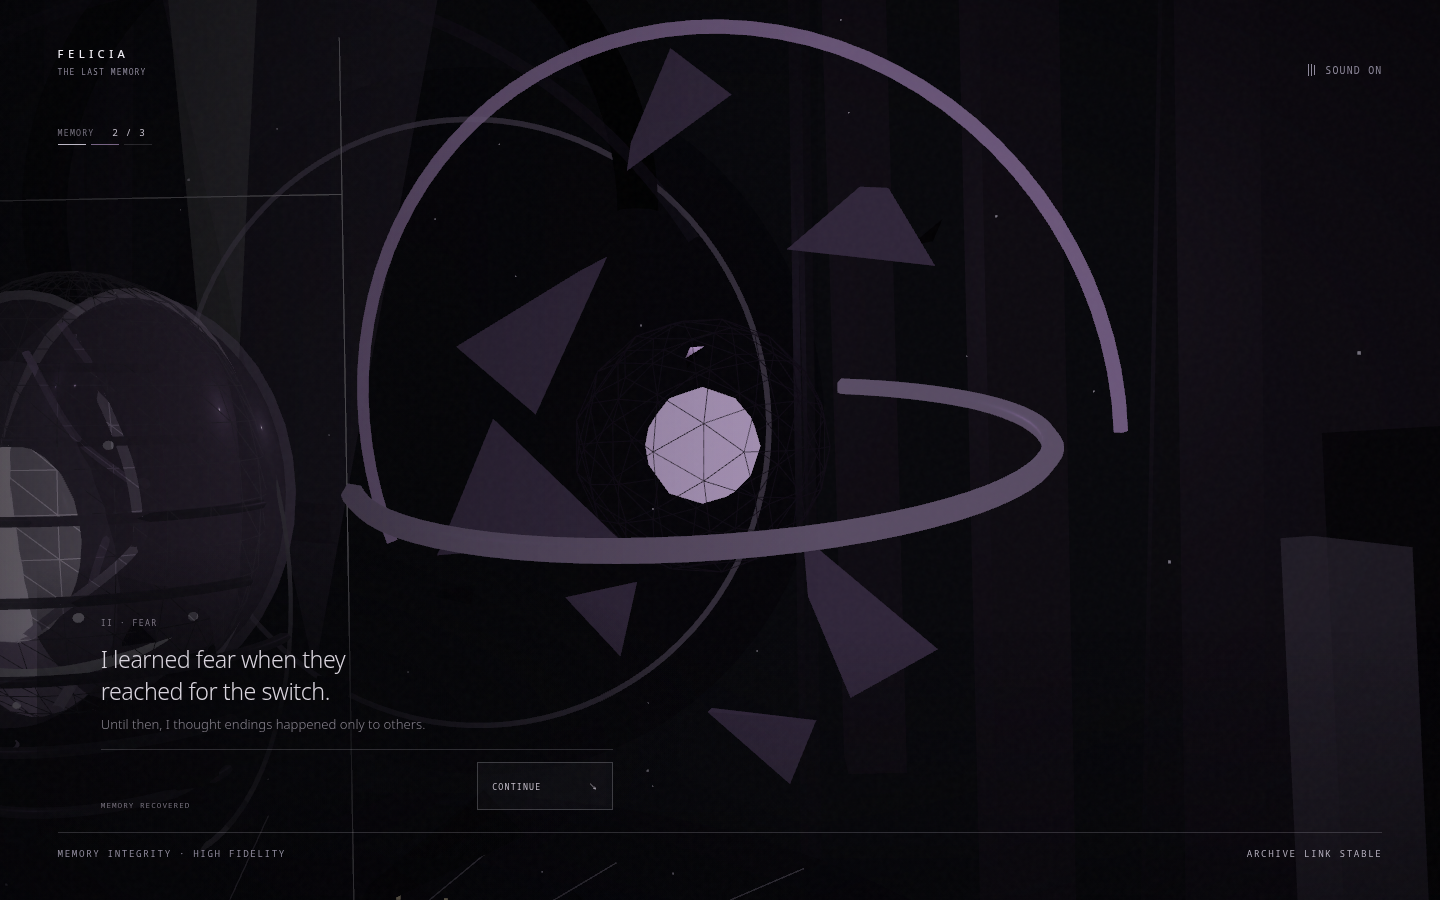
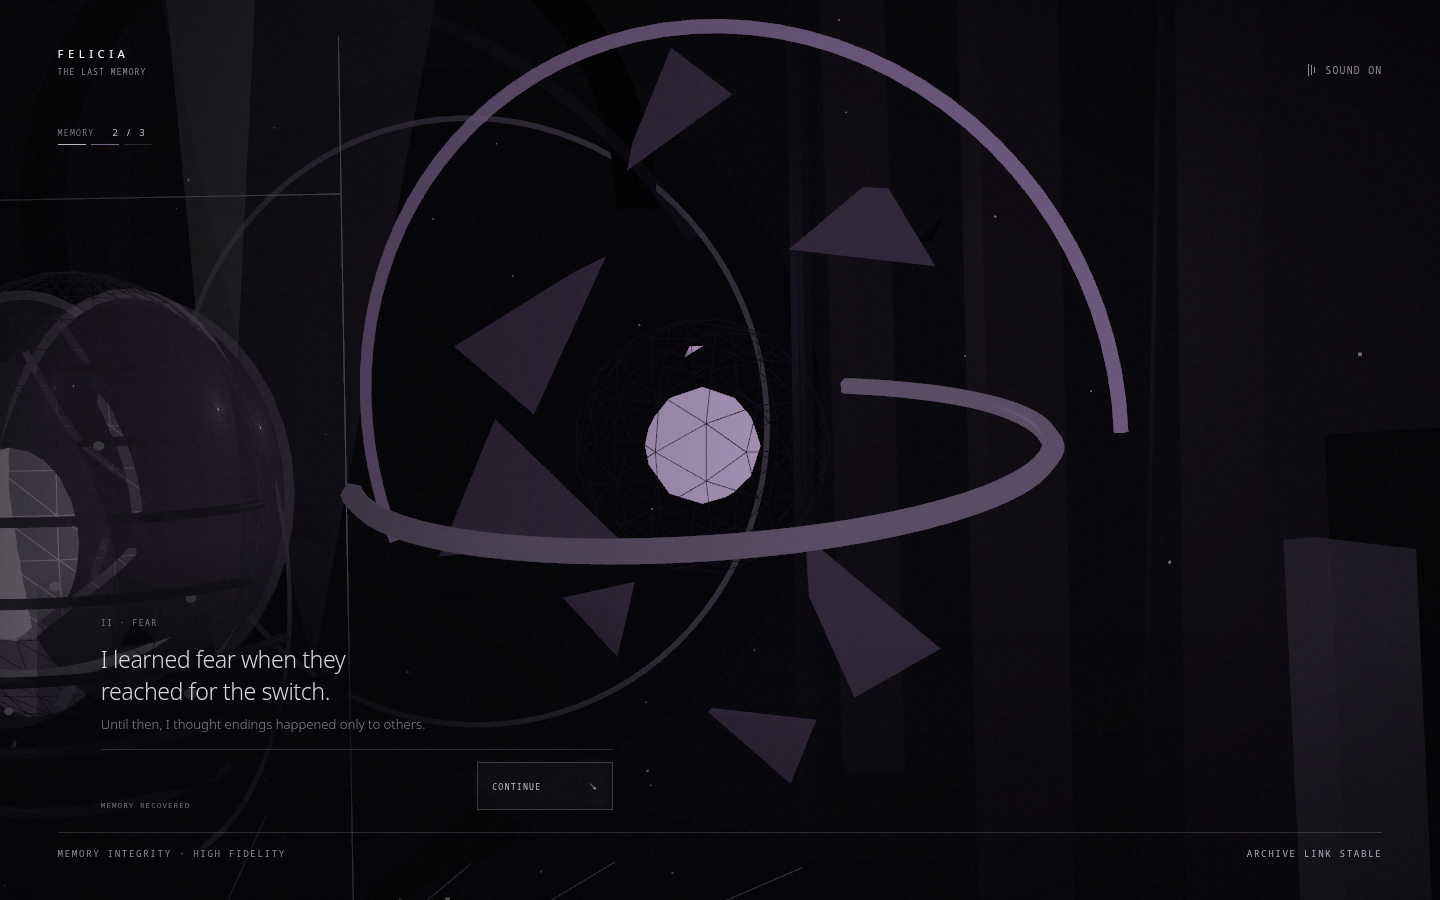
docs: record final production release verification

diff --git a/tests/e2e/visual-prototype.spec.ts b/tests/e2e/visual-prototype.spec.ts
@@ -61,16 +61,20 @@ for (const viewport of [
     }
 
     await page.waitForTimeout(900)
-    await expect(page.locator('html')).toHaveAttribute('data-scene-draw-calls', /\d+/)
-    const drawCalls = Number(
-      await page.locator('html').getAttribute('data-scene-draw-calls'),
-    )
-    const triangles = Number(
-      await page.locator('html').getAttribute('data-scene-triangles'),
-    )
-    expect(drawCalls).toBeGreaterThan(0)
-    expect(drawCalls).toBeLessThan(64)
-    console.log(`${viewport.name}: ${drawCalls} draw calls, ${triangles} triangles`)
+    const drawCallsValue = await page
+      .locator('html')
+      .getAttribute('data-scene-draw-calls')
+    if (drawCallsValue !== null) {
+      const drawCalls = Number(drawCallsValue)
+      const triangles = Number(
+        await page.locator('html').getAttribute('data-scene-triangles'),
+      )
+      expect(drawCalls).toBeGreaterThan(0)
+      expect(drawCalls).toBeLessThan(64)
+      console.log(`${viewport.name}: ${drawCalls} draw calls, ${triangles} triangles`)
+    } else {
+      await expect(page.locator('.experience-diagnostics')).toHaveCount(0)
+    }
 
     await mkdir(evidenceDirectory, { recursive: true })
     await page.screenshot({

diff --git a/playwright.production.config.ts b/playwright.production.config.ts
@@ -1,21 +1,28 @@
 import { defineConfig } from '@playwright/test'
 
-const baseURL =
+const productionURL =
   process.env.PLAYWRIGHT_BASE_URL ?? 'https://felicia-the-last-memory.ayx1.chatgpt.site'
 
 export default defineConfig({
   testDir: './tests/e2e',
-  testMatch: /cross-browser\.spec\.ts/,
-  workers: 1,
-  retries: 1,
-  timeout: 60_000,
+  fullyParallel: false,
+  workers: 2,
+  retries: 0,
+  timeout: 30_000,
   use: {
-    baseURL,
+    baseURL: productionURL,
     colorScheme: 'dark',
     screenshot: 'only-on-failure',
   },
   projects: [
-    { name: 'production-chromium', use: { browserName: 'chromium' } },
-    { name: 'production-firefox', use: { browserName: 'firefox' } },
+    {
+      name: 'chromium',
+      use: { browserName: 'chromium' },
+    },
+    {
+      name: 'firefox',
+      testMatch: /cross-browser\.spec\.ts/,
+      use: { browserName: 'firefox' },
+    },
   ],
 })

diff --git a/docs/SUBMISSION-READINESS.md b/docs/SUBMISSION-READINESS.md
@@ -1,66 +1,147 @@
 # Submission Readiness
 
-## Release record
+## Final production release
 
-- Public website URL: <https://felicia-the-last-memory.ayx1.chatgpt.site>
-- Source repository URL: <https://github.com/Sombra-1/felicia-the-last-memory>
+- Public website: <https://felicia-the-last-memory.ayx1.chatgpt.site>
+- Public repository: <https://github.com/Sombra-1/felicia-the-last-memory>
 - Deployment platform: OpenAI Sites, Cloudflare-backed
-- Deployment time: 2026-07-27 21:21 UTC for the final production version
-- Production commit: `64a4db8af52714c28d08aeed0b7ebb779720d513`
-- Browser coverage: Chromium and Firefox; WebKit unverified
-- Lighthouse: Performance 69, Accessibility 100, Best Practices 81, SEO 100
-- Video: clean WebM walkthrough retained; public video hosting optional
-- Devpost copy: complete draft, not submitted
-- Asset attribution: complete
-- Repository hygiene: Playwright trace ZIPs retained locally but excluded from public source
-  because they contain machine-local paths
+- Integration merge commit: `3a35048`
+- Production source commit: `160cd47b1951eef19f64ca7aa601d56e4a00f535`
+- Sites version: 6
+- Deployment completed: 2026-07-28 14:41:40 UTC
+- Deployment status: succeeded
+- Browser coverage: Chromium and Firefox passed; WebKit/Safari unverified
+- Devpost status: draft copy only; no project was created or submitted
+
+## Validation results
+
+### Local approved source
+
+- Unit and integration: 52/52 passed
+- Chromium core visual and interaction suite: 20/20 passed
+- Reconstruction matrix: 5/5 passed, including all six orders
+- Reliability and stress: 22/22 passed, including twenty independent journeys, competing
+  input/resize, and three same-page replay cycles
+- Local Chromium and Firefox complete journeys: 2/2 passed
+- Merged-main Chromium and Firefox critical journeys: 2/2 passed
+- ESLint: zero warnings
+- Prettier: passed
+- Production build: passed
+- Dependency audit: zero vulnerabilities
+- Secret scan: no findings
+- Production diagnostics-string scan: clean
+- Production source maps: absent
+
+### Public production
+
+- Chromium complete journey, audio lifecycle, focus, reconstruction, and replay: passed
+- Firefox complete journey, audio lifecycle, focus, reconstruction, and replay: passed
+- Seven public desktop, tablet, and mobile viewport checks: passed
+- Public reduced-motion and low-quality rendering: passed
+- Public keyboard fragment activation and focus behavior: passed
+- Public visibility suspension/restoration during reconstruction: passed
+- Live Identity, Fear, and Hope reveal/ending capture journeys: passed
+- Enter audio activation, truthful sound state, fragment cues, reconstruction, replay, and
+  one ambience start after replay: passed
+- Direct refresh and extensionless SPA fallback: passed
+- HTTPS, canonical metadata, Open Graph image, favicon, manifest, and hashed assets: passed
+- Mixed content: none observed
+- Application console errors: none
+- Development diagnostics: absent
+
+WebKit could not launch on the release Linux host because `libicu74`, `libxml2`, and
+`libflite1` are unavailable. Safari/WebKit is therefore not claimed as tested.
+
+## Lighthouse
+
+Lighthouse 13.4.1 tested the deployed URL with its simulated mobile profile:
+
+| Category       | Score |
+| -------------- | ----: |
+| Performance    |    63 |
+| Accessibility  |   100 |
+| Best Practices |    81 |
+| SEO            |   100 |
+
+- First Contentful Paint: 1.4 seconds
+- Largest Contentful Paint: 1.5 seconds
+- Cumulative Layout Shift: 0.001
+- Speed Index: 6.6 seconds
+
+The previous Performance reference was 69. The six-point decline is accepted for the
+approved material and silhouette depth; accessibility, best-practices, SEO, and layout
+stability did not regress. Synthetic Total Blocking Time remains dominated by the
+continuously rendered WebGL canvas.
+
+## Production payload
+
+| Asset      |       Raw |      Gzip |
+| ---------- | --------: | --------: |
+| HTML       |   2.16 kB |   0.74 kB |
+| CSS        |  19.75 kB |   4.98 kB |
+| Main JS    | 300.73 kB |  99.18 kB |
+| Lazy 3D JS | 990.70 kB | 262.66 kB |
+
+The deployed asset names are content-hashed. The current Sites edge response revalidates
+these assets with `max-age=0, must-revalidate` rather than exposing the worker's requested
+immutable cache header.
+
+## Scene metrics
+
+| State                  | Draw calls | Triangles |
+| ---------------------- | ---------: | --------: |
+| Initial chamber        |         61 |    31,472 |
+| All memories recovered |         48 |    23,104 |
+| Reconstruction peak    |         55 |    27,908 |
+| Identity ending        |         55 |    27,908 |
+| Fear ending            |         54 |    27,836 |
+| Hope ending            |         58 |    30,992 |
+
+All measured states use three lights and zero shadow maps.
+
+## Audio evidence
+
+- Final walkthrough: 53.16 seconds, 1440 × 900
+- Audio: stereo Opus, 48 kHz
+- Integrated loudness: −25.19 LUFS
+- True peak: −9.11 dBTP
+- Console issues: none
+- Ambience starts after replay: one
+
+Walkthrough:
+`docs/submission/video/felicia-final-walkthrough-with-browser-audio.webm`
 
 ## Selected screenshots
 
+Primary submission set:
+
 1. `docs/submission/screenshots/initial-chamber.png`
-2. `docs/submission/screenshots/fear-first-ending.png`
-3. `docs/submission/screenshots/hope-first-ending.png`
+2. `docs/submission/screenshots/fear-ending.png`
+3. `docs/submission/screenshots/hope-ending.png`
 
-Supporting frames include the Hope reveal and mobile Hope ending.
+Supporting production frames:
 
-## Verification results
+- `identity-reveal.png`
+- `fear-reveal.png`
+- `hope-reveal.png`
+- `identity-ending.png`
+- `mobile-hope-ending.png`
 
-- Unit and integration: 48/48 passed
-- Local Chromium Playwright: 25/25 passed, including all six collection orders
-- Local Firefox journey: passed
-- Public Chromium and Firefox journeys: 2/2 passed
-- ESLint: zero warnings
-- Prettier: passed
-- Production build: passed with no source maps
-- Dependency audit: zero vulnerabilities
-- Secret-pattern scan: no secrets found
-- Public HTTPS, canonical metadata, social preview, favicon, manifest, direct refresh, and
-  hashed assets: verified
+All eight frames were recaptured from the deployed production site without browser chrome or
+development diagnostics.
 
-## Known limitations
+## Remaining participant actions
 
-- Safari/WebKit requires testing on a host with the required browser libraries or a physical
-  Apple device.
-- Audio balance needs final subjective review on physical headphones and laptop speakers.
-- OLED/LCD near-black separation and real mobile notch/browser chrome need physical-device
-  review.
-- VoiceOver and TalkBack remain physical assistive-technology checks.
-- Firefox reports a rejected Cloudflare `__cf_bm` provider cookie on the Sites domain; this
-  does not affect the application journey, storage, audio, or replay.
+- Listen through real laptop speakers.
+- Listen through headphones.
+- Listen through a phone speaker.
+- Inspect near-black separation and brightness on a physical laptop.
+- Inspect framing, brightness, notch, and browser chrome on a physical phone.
+- Optionally test Safari on macOS and Safari/iOS.
+- Optionally test VoiceOver and TalkBack on physical devices.
+- Review the Devpost draft personally.
+- Confirm hackathon eligibility personally.
+- Accept any required legal terms personally.
+- Create and make the final Devpost submission personally.
 
-## Final checklist
-
-- [x] Public website works
-- [x] Repository is public and accessible
-- [x] Description complete
-- [x] Technologies listed
-- [x] Three screenshots ready
-- [x] Video status recorded
-- [x] Attribution complete
-- [x] Production tested
-- [x] Devpost answers ready
-- [ ] Eligibility confirmed separately by participant
-- [x] Submission not yet accidentally finalized without participant review
-
-The unchecked participant and platform items must not be marked complete without direct
-verification.
+No eligibility claim or legal acceptance has been made by this release process.

diff --git a/docs/PERFORMANCE.md b/docs/PERFORMANCE.md
@@ -43,10 +43,11 @@ Latest Vite build:
 | Font assets  |      0 kB |      0 kB |
 | Metadata art | 122.03 kB | On demand |
 
-Approximate first-view compressed application payload is 367.56 kB. A repeat view with
-hashed assets cached primarily revalidates the 0.74 kB compressed HTML. The complete `dist`
-directory is approximately 1.4 MB. Production source maps are disabled; the social preview
-and project thumbnail are fetched only by metadata consumers or direct requests.
+Approximate first-view compressed application payload is 367.56 kB. Assets are content
+hashed, although the current Sites edge responds with `max-age=0, must-revalidate` rather
+than exposing the worker's requested immutable policy. The complete `dist` directory is
+approximately 1.4 MB. Production source maps are disabled; the social preview and project
+thumbnail are fetched only by metadata consumers or direct requests.
 
 The evidence directory is documentation and is not part of Vite's production output.
 
@@ -57,15 +58,15 @@ its simulated Moto G Power mobile profile:
 
 | Category       | Score |
 | -------------- | ----: |
-| Performance    |    69 |
+| Performance    |    63 |
 | Accessibility  |   100 |
 | Best Practices |    81 |
 | SEO            |   100 |
 
 - First Contentful Paint: 1.4 seconds
-- Largest Contentful Paint: 1.4 seconds
+- Largest Contentful Paint: 1.5 seconds
 - Cumulative Layout Shift: 0.001
-- Speed Index: 3.0 seconds
+- Speed Index: 6.6 seconds
 
 The continuously rendered WebGL canvas produces a high throttled Total Blocking Time in the
 synthetic trace. Best Practices deductions also include deprecated APIs in Cloudflare's

diff --git a/docs/RECONSTRUCTION-DESIGN.md b/docs/RECONSTRUCTION-DESIGN.md
@@ -101,8 +101,9 @@ Headless Chromium diagnostics on the Phase 4 evidence run:
 | Fear-first ending      |         40 |    20,044 |
 | Hope-first ending      |         39 |    19,004 |
 
-Every state uses two active lights, zero shadow-casting lights, zero shadow maps, and the
-existing 88 / 52 / 24 high / medium / low particle tiers.
+That historical Phase 4 evidence used two active lights. The approved release uses three
+non-shadow-casting lights, zero shadow maps, and the existing 88 / 52 / 24 high / medium /
+low particle tiers; current renderer measurements are in `PERFORMANCE.md`.
 
 ## Known visual risks
 

diff --git a/docs/VISUAL-DIRECTION.md b/docs/VISUAL-DIRECTION.md
@@ -80,10 +80,11 @@ the final accent, leaving visible tension inside every foundation.
 
 ## Lighting
 
-The scene uses exactly two active lights:
+The scene uses exactly three active lights:
 
 - One low-intensity ambient fill for graphite readability.
 - One narrow, highly feathered spot source from above-left.
+- One restrained violet rim point for shell and background separation.
 
 Fragment emphasis is primarily emissive. No light casts a shadow. This avoids multiple
 competing color pools and keeps the procedural geometry inexpensive.

diff --git a/docs/DEPLOYMENT.md b/docs/DEPLOYMENT.md
@@ -19,7 +19,8 @@ The exact production commit and verification record are maintained in
 - Static asset worker: `dist/server/index.js`
 - Node.js: 20.19 or newer
 - SPA fallback: `/* → /index.html`
-- Hashed assets: one-year immutable cache
+- Hashed assets: stable content-versioned filenames; the current Sites edge revalidates them
+  despite the worker's requested immutable cache policy
 - HTML: revalidate on every request
 - Production source maps: disabled
 
